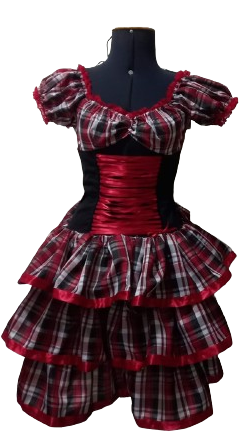
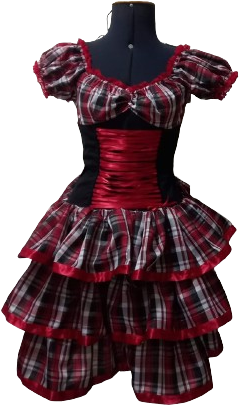
Updated image source in index.html, modified homeStyle.css, and added a new image file in roupas directory.

diff --git a/index.html b/index.html
@@ -117,7 +117,7 @@
             <!-- divisão de prod -->
             <div class="prod">
                 <div class="prodLeft">
-                    <img class="prodImg" src="image/vestido roxo.png">
+                    <img class="prodImg" src="./roupas/8a34e79b-9767-4888-a299-615493f4f937-removebg-preview.png">
                 </div>
                 <div class="prodRight">
                     <div class="prodDescription">

diff --git a/styles/homeStyle.css b/styles/homeStyle.css
@@ -170,15 +170,13 @@ footer {
 }
 .prodRight {
     display: grid;
-    grid-template-rows: 1fr 1fr;
+    grid-template-rows: 1fr 1fr; 
 }
-
 
 .prodImg {
     margin-left: 5%;
     height: 90%;
     width: 90%;
-    border-radius: 15px;
 }
 
 .column {
